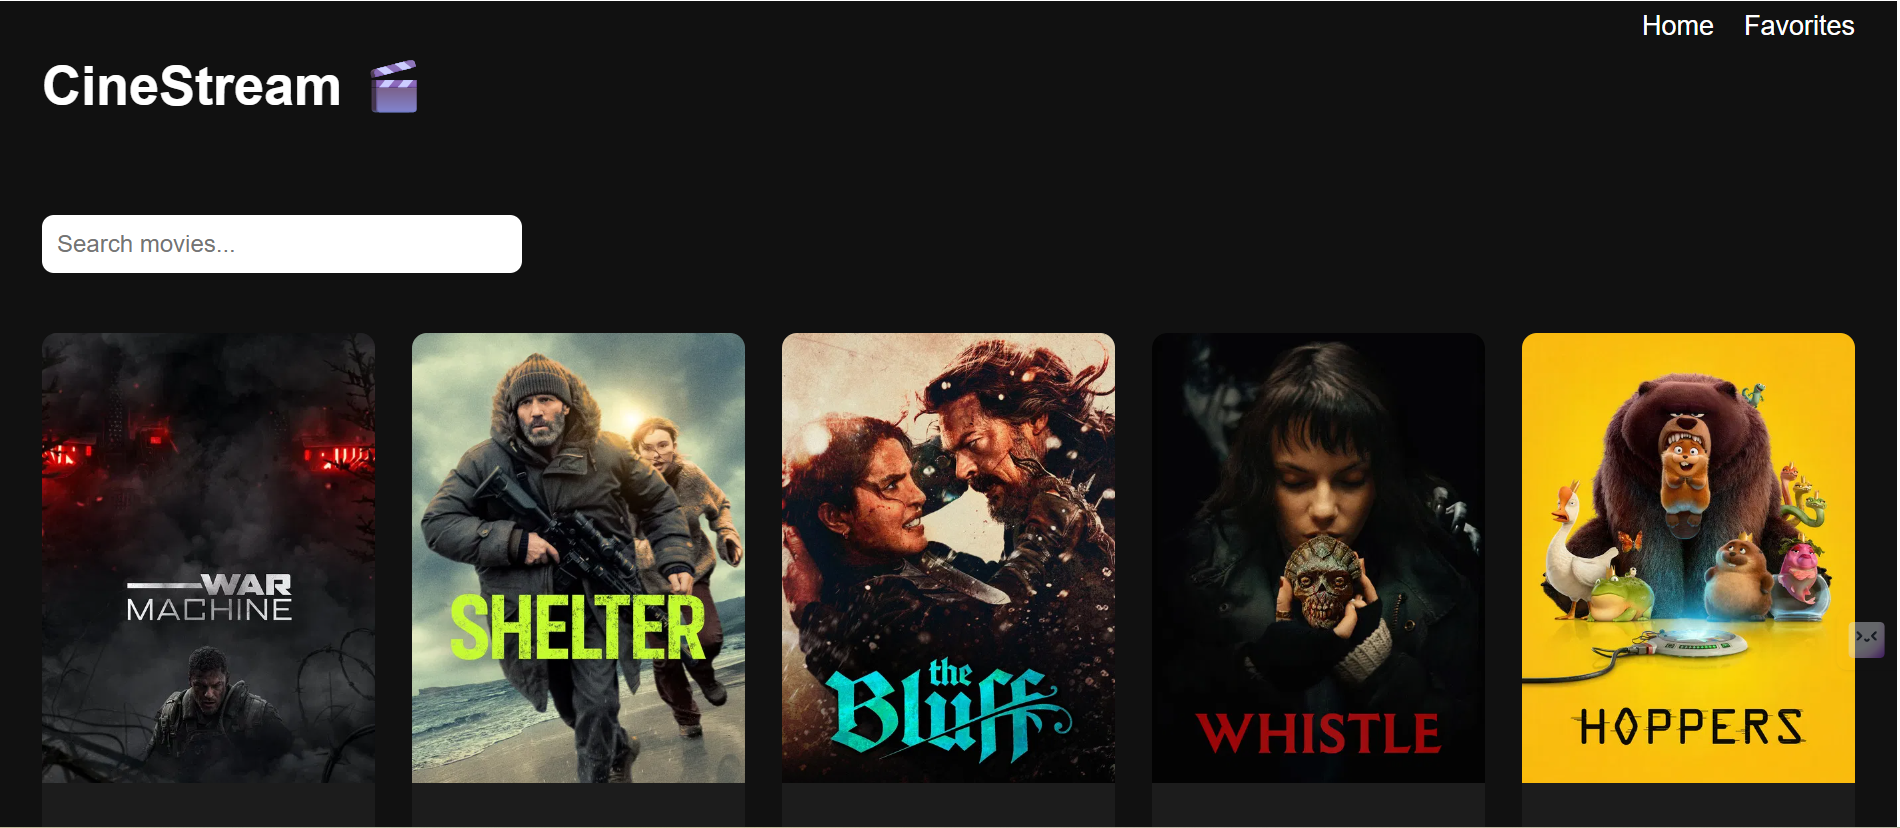
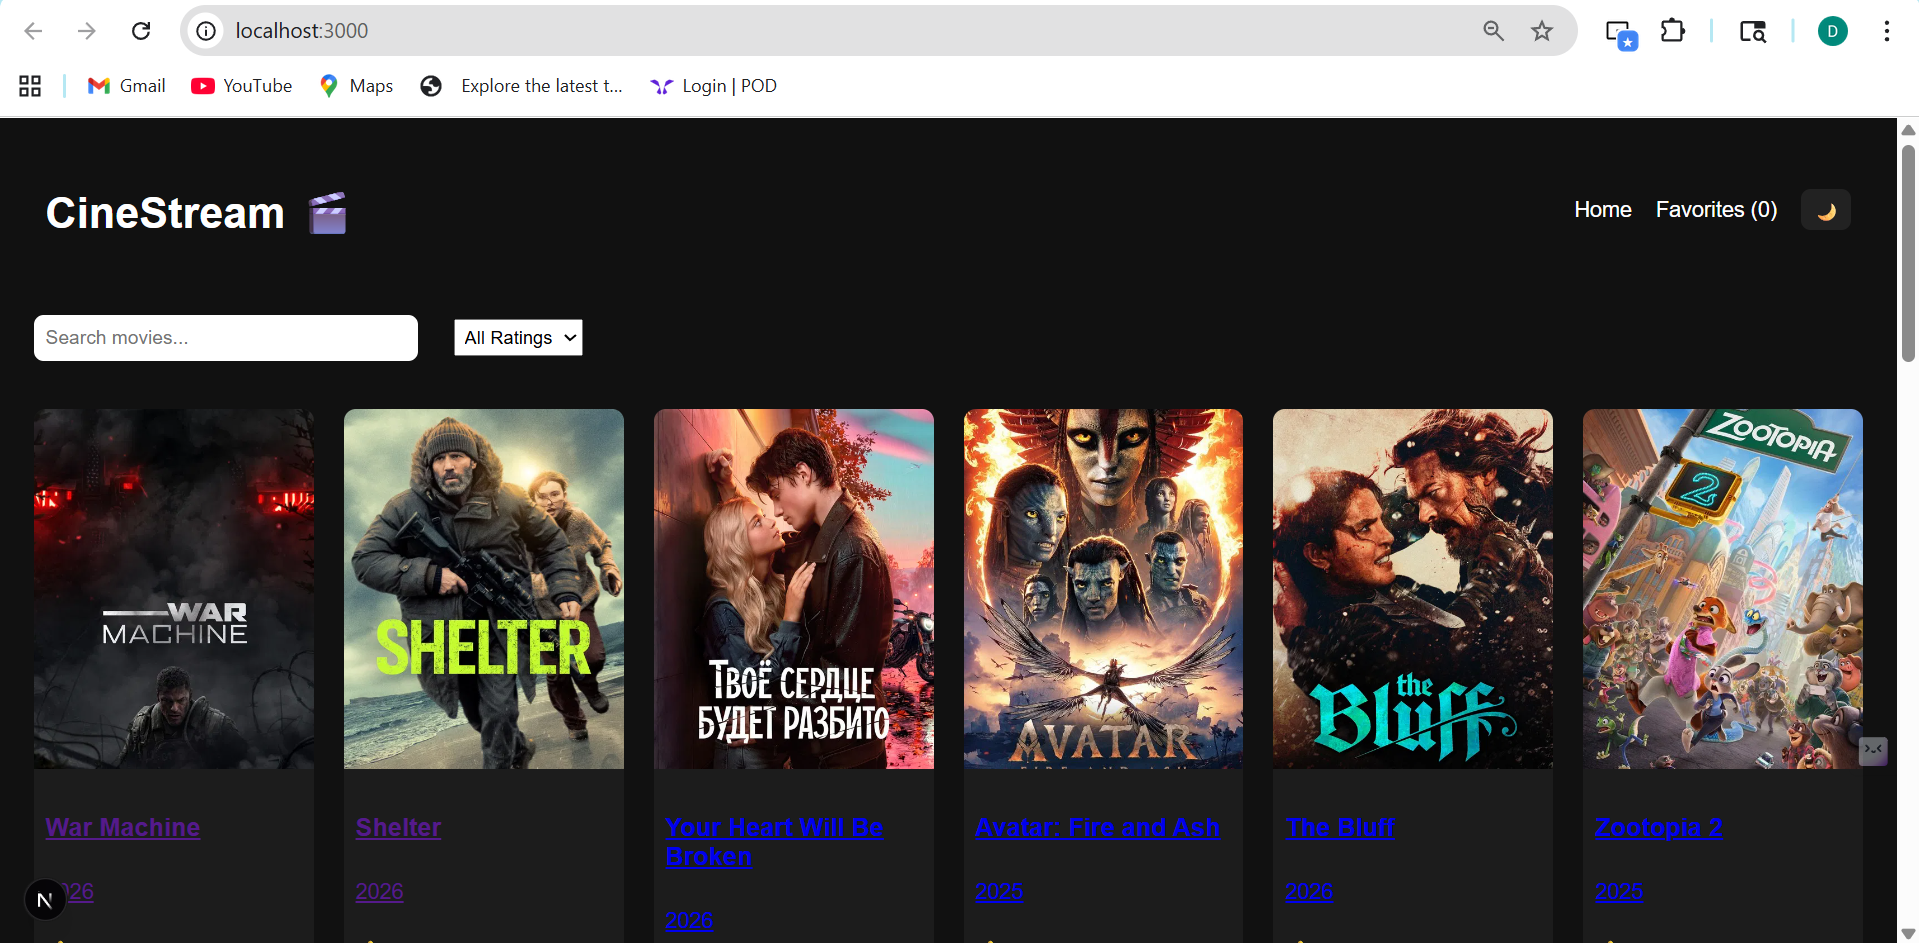
add prompt, delete comment , add screen shoot

diff --git a/src/components/MovieCard.jsx b/src/components/MovieCard.jsx
@@ -1,64 +1,3 @@
-// "use client";
-
-// import { useState, useEffect } from "react";
-// import Link from "next/link";
-
-// export default function MovieCard({ movie }) {
-
-//   const image = `https://image.tmdb.org/t/p/w500${movie.poster_path}`;
-
-//   const [fav,setFav] = useState(false);
-
-//   useEffect(()=>{
-
-//     const stored = JSON.parse(localStorage.getItem("favorites")) || [];
-
-//     if(stored.find(m => m.id === movie.id)){
-//       setFav(true)
-//     }
-
-//   },[])
-
-//   const toggleFav = (e) => {
-
-//     e.preventDefault(); // important so link doesn't trigger
-
-//     let stored = JSON.parse(localStorage.getItem("favorites")) || [];
-
-//     if(fav){
-//       stored = stored.filter(m => m.id !== movie.id)
-//     } else{
-//       stored.push(movie)
-//     }
-
-//     localStorage.setItem("favorites",JSON.stringify(stored))
-//     setFav(!fav)
-//   }
-
-//   return(
-
-//     <Link href={`/movie/${movie.id}`}>
-
-//       <div className="movie-card">
-
-//         <img src={image} alt={movie.title}/>
-
-//         <h3>{movie.title}</h3>
-
-//         <p>{movie.release_date?.slice(0,4)}</p>
-
-//         <p>⭐ {movie.vote_average}</p>
-
-//         <button onClick={toggleFav}>
-//           {fav ? "❤" : "🤍"}
-//         </button>
-
-//       </div>
-
-//     </Link>
-
-//   )
-// }
 
 
 

diff --git a/src/app/favorites/page.js b/src/app/favorites/page.js
@@ -1,42 +1,3 @@
-// "use client";
-
-// import { useEffect, useState } from "react";
-// import MovieCard from "../../components/MovieCard";
-// import Navbar from "../../components/Navbar";
-
-// export default function Favorites(){
-
-//   const [movies,setMovies] = useState([])
-
-//   useEffect(()=>{
-
-//     const stored = JSON.parse(localStorage.getItem("favorites")) || []
-
-//     setMovies(stored)
-
-//   },[])
-
-//   return(
-
-//     <div>
-
-//       <Navbar />
-
-//       <h2 style={{padding:"20px"}}>My Favorites</h2>
-
-//       <div className="movie-grid">
-
-//         {movies.map(movie=>(
-//           <MovieCard key={movie.id} movie={movie}/>
-//         ))}
-
-//       </div>
-
-//     </div>
-
-//   )
-
-// }
 
 
 "use client";

diff --git a/src/app/layout.js b/src/app/layout.js
@@ -1,30 +1,3 @@
-// import { Geist, Geist_Mono } from "next/font/google";
-// import "./globals.css";
-
-// const geistSans = Geist({
-//   variable: "--font-geist-sans",
-//   subsets: ["latin"],
-// });
-
-// const geistMono = Geist_Mono({
-//   variable: "--font-geist-mono",
-//   subsets: ["latin"],
-// });
-
-// export const metadata = {
-//   title: "Create Next App",
-//   description: "Generated by create next app",
-// };
-
-// export default function RootLayout({ children }) {
-//   return (
-//     <html lang="en">
-//       <body className={`${geistSans.variable} ${geistMono.variable}`}>
-//         {children}
-//       </body>
-//     </html>
-//   );
-// }
 
 
 import { Geist, Geist_Mono } from "next/font/google";

diff --git a/src/lib/tmdb.js b/src/lib/tmdb.js
@@ -1,26 +1,4 @@
-// import axios from "axios";
 
-// export async function getPopularMovies(){
-
-//   try{
-
-//     const apiKey = process.env.NEXT_PUBLIC_TMDB_KEY;
-
-//     const res = await axios.get(
-//       `https://api.themoviedb.org/3/movie/popular?api_key=${apiKey}`
-//     );
-
-//     return res.data.results || [];
-
-//   }catch(error){
-
-//     console.log("TMDB error:",error);
-
-//     return [];
-
-//   }
-
-// }
 
 
 

diff --git a/src/components/SearchBar.jsx b/src/components/SearchBar.jsx
@@ -1,21 +1,4 @@
 
-// "use client";
-
-// export default function SearchBar({query,setQuery}){
-
-//   return(
-
-//     <input
-//       className="search-bar"
-//       type="text"
-//       placeholder="Search movies..."
-//       value={query}
-//       onChange={(e)=>setQuery(e.target.value)}
-//     />
-
-//   )
-// }
-
 "use client";
 
 import { useDispatch } from "react-redux";

diff --git a/src/components/Navbar.jsx b/src/components/Navbar.jsx
@@ -1,28 +1,4 @@
-// "use client";
 
-// import Link from "next/link";
-
-// export default function Navbar(){
-
-//   return(
-
-//     <nav className="navbar">
-
-//       <h1>CineStream 🎬</h1>
-
-//       <div>
-
-//         <Link href="/">Home</Link>
-
-//         <Link href="/favorites">Favorites</Link>
-
-//       </div>
-
-//     </nav>
-
-//   )
-
-// }
 
 "use client";
 

diff --git a/Prompts.md b/Prompts.md
@@ -1,3 +1,4 @@
+# week9 prompts
 Explain the difference between Client Components and Server Components in Next.js App Router with simple examples.
 
 How can I fetch data from an external API in a Next.js Server Component without using useEffect?
@@ -26,3 +27,44 @@ How can I optimize image loading for external APIs like TMDB in Next.js?
 
 How can I make a movie card clickable and navigate to a dynamic details page using Next.js Link component?
 
+
+# week 10 promts
+How can I integrate Redux Toolkit into an existing Next.js App Router project?
+
+What is the correct folder structure for using Redux Toolkit in a Next.js app?
+
+How do I create a Redux store and connect it to my Next.js application using Provider?
+
+What is a slice in Redux Toolkit and how do I create one for managing favorites?
+
+How can I replace localStorage-based favorites logic with Redux global state?
+
+How do I use useDispatch and useSelector hooks in a Next.js Client Component?
+
+Why do I need "use client" when using Redux in Next.js components?
+
+How can I manage global filter state (search and rating) using Redux Toolkit?
+
+How do I remove prop drilling and connect multiple components using Redux?
+
+How can I implement live search filtering using Redux state in React/Next.js?
+
+How do I combine multiple filters (search + rating) to update UI dynamically?
+
+How can I optimize filtering performance using useMemo in React?
+
+How do I create a global theme (dark/light mode) using Redux Toolkit?
+
+How can I apply conditional CSS classes based on Redux state in Next.js?
+
+How do I structure components so that global state updates reflect instantly across the app?
+
+I am getting module not found errors while setting up Redux in Next.js. How can I fix import path issues?
+
+How can I handle API failures (like timeout errors) in Next.js without breaking the UI?
+
+What is the best way to debug Redux state issues in a React/Next.js project?
+
+
+
+How can I structure my project so that it looks scalable and production-ready using Redux?

diff --git a/README.md b/README.md
@@ -2,5 +2,14 @@
 
 👉 Live URL:https://cine-stream-next-kappa.vercel.app/
 
+
+# week 10 UI image
 📸 Screenshot
 ![](Screenshot.png)
+
+Week 10 Upgrade:
+- Redux Toolkit (Global State)
+- Favorites System
+- Search & Rating Filter
+- Performance Optimization (useMemo)
+- Dark/Light Theme
